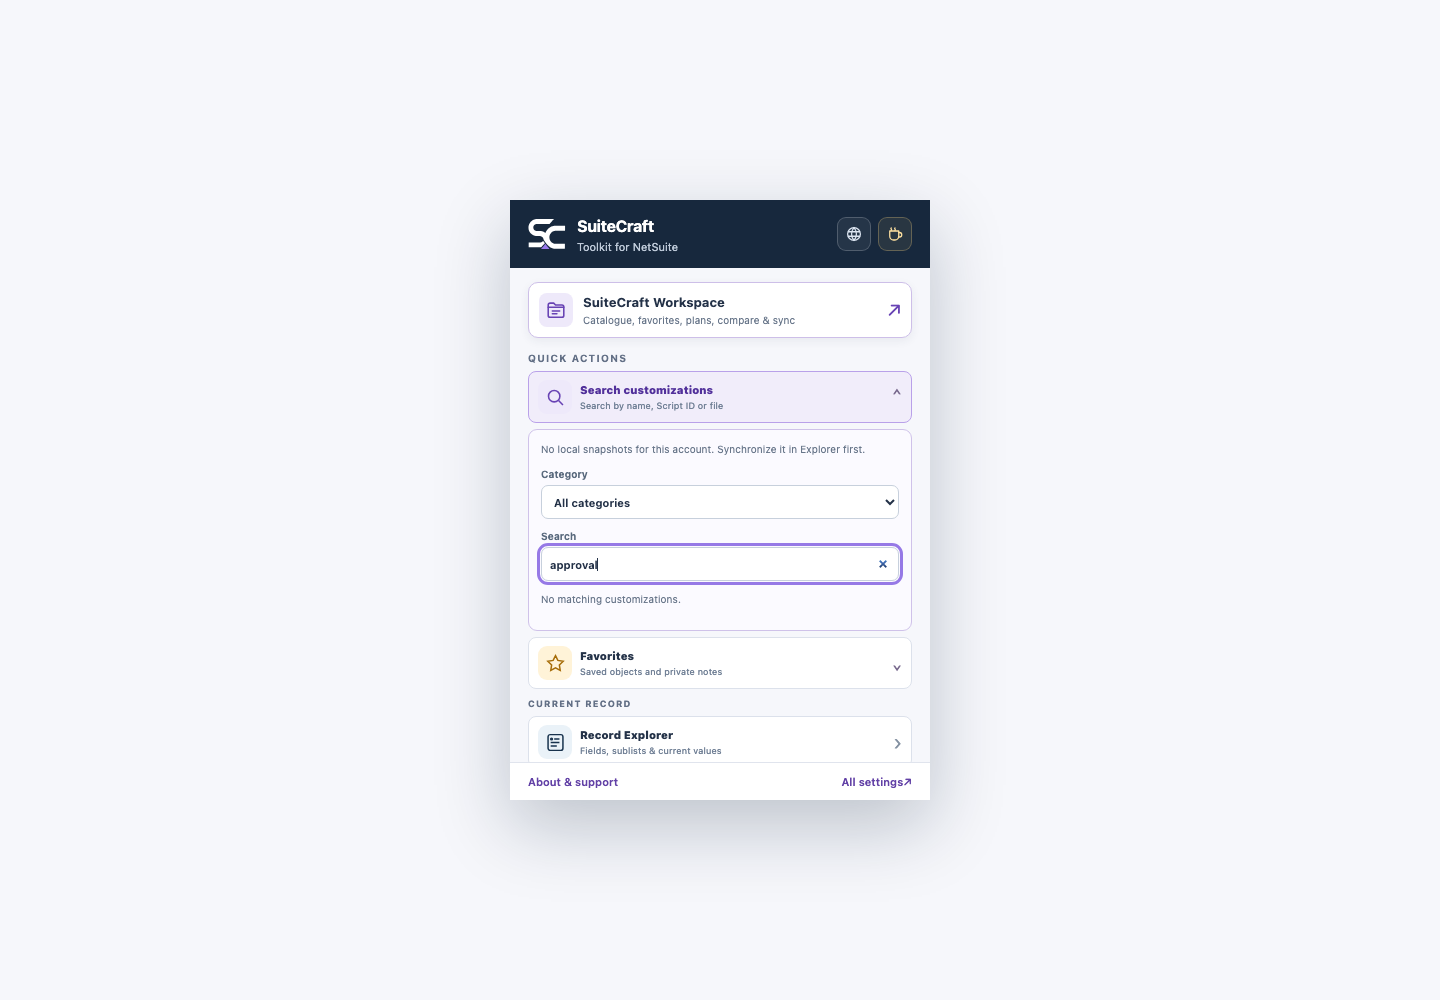
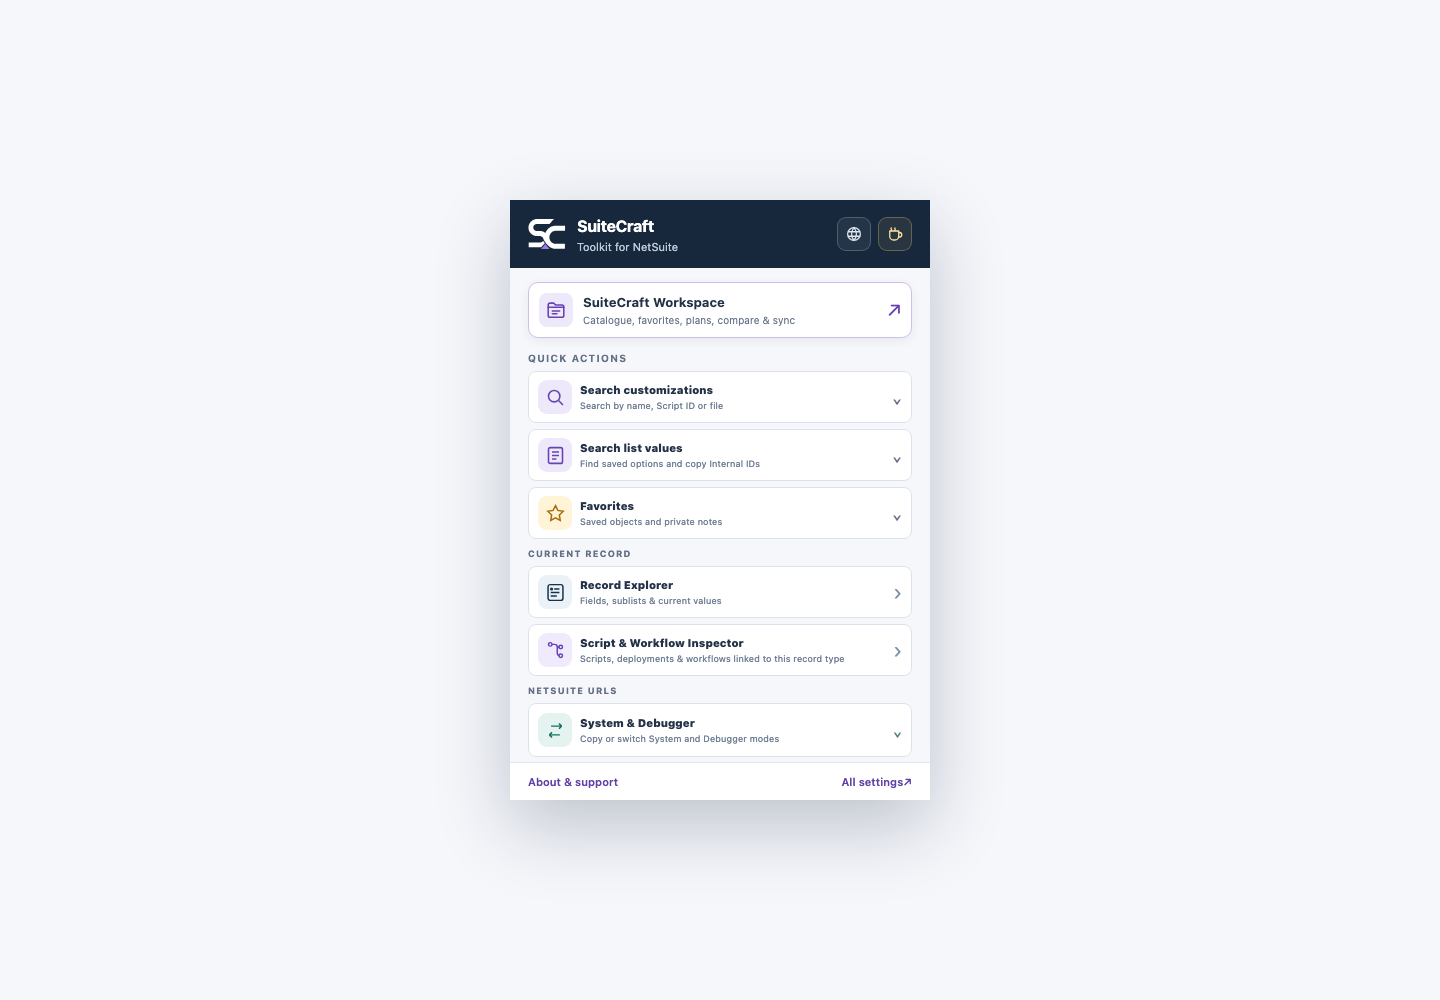
docs: publish 0.3.0 features and refreshed product screenshots

Changed region(s): [[0.375, 0.434, 0.625, 0.775], [0.4062, 0.372, 0.5, 0.403], [0.5938, 0.62, 0.625, 0.651]]

diff --git a/index.html b/index.html
@@ -44,7 +44,7 @@
 					<a class="button secondary" href="#tour">See SuiteCraft in action</a>
 				</div>
 				<p class="compatibility"><span aria-hidden="true">◆</span> Designed for Chrome and Brave · Runs locally in your browser</p>
-				<a class="release-chip" href="#changelog">Latest beta · 0.2.3 <span aria-hidden="true">→</span></a>
+				<a class="release-chip" href="#changelog">Latest beta · 0.3.0 <span aria-hidden="true">→</span></a>
 			</div>
 			<div class="hero-visual" aria-label="SuiteCraft interface preview">
 				<div class="glow"></div>
@@ -113,7 +113,7 @@
 				<p>Focused tools for administrators, developers and consultants who want to understand an account faster and repeat fewer manual steps.</p>
 			</div>
 			<div class="feature-grid">
-				<article class="feature-card featured"><span class="feature-number">01</span><div class="feature-icon">⌕</div><h3>Customization Workspace</h3><p>Search fields, custom records, lists, scripts and workflows from locally stored account snapshots.</p><ul><li>Account-scoped catalogue</li><li>Manual synchronization</li><li>CSV and JSON export</li></ul></article>
+				<article class="feature-card featured"><span class="feature-number">01</span><div class="feature-icon">⌕</div><h3>Customization Workspace</h3><p>Search fields, custom records, lists, scripts and workflows from locally stored account snapshots.</p><ul><li>Account-scoped catalogue</li><li>Manual synchronization</li><li>CSV, Excel and JSON export</li></ul></article>
 				<article class="feature-card"><span class="feature-number">02</span><div class="feature-icon">{ }</div><h3>Record Explorer</h3><p>Inspect body fields, sublists and current values, filter native and custom fields, and open synchronized field definitions.</p></article>
 				<article class="feature-card"><span class="feature-number">03</span><div class="feature-icon">⌁</div><h3>Script &amp; Workflow Inspector</h3><p>See scripts, deployments and workflows linked to the current record type, with IDs, entry points and workflow activity.</p></article>
 				<article class="feature-card"><span class="feature-number">04</span><div class="feature-icon">◇</div><h3>Compare snapshots</h3><p>See what was added, removed or changed between environments or points in time, down to practical properties and SDF XML.</p></article>
@@ -121,6 +121,9 @@
 				<article class="feature-card"><span class="feature-number">06</span><div class="feature-icon">✓</div><h3>Change Plans</h3><p>Prepare releases with target readiness checks, item statuses, notes, links and Markdown, CSV or JSON exports.</p></article>
 				<article class="feature-card"><span class="feature-number">07</span><div class="feature-icon">•••</div><h3>Record page UI</h3><p>Keep SuiteCraft shortcuts close to the record title and optionally wrap crowded NetSuite action bars across multiple rows.</p></article>
 				<article class="feature-card"><span class="feature-number">08</span><div class="feature-icon">⇄</div><h3>System &amp; Debugger URLs</h3><p>Copy or switch between System and Debugger URL variants without rebuilding the address by hand.</p></article>
+<article class="feature-card"><span class="feature-number">09</span><div class="feature-icon">☷</div><h3>Lists &amp; reference data</h3><p>Keep standard lists and custom record options close. Search values, copy Internal IDs and export local copies as CSV or Excel.</p></article>
+<article class="feature-card"><span class="feature-number">10</span><div class="feature-icon">⌕</div><h3>Quick Access search</h3><p>Find Favorites, catalogue objects and list values from the NetSuite menu. Filter by object type or list without opening Workspace.</p></article>
+<article class="feature-card"><span class="feature-number">11</span><div class="feature-icon">◐</div><h3>Make SuiteCraft yours</h3><p>Choose a light or dark theme, read illustrated feature descriptions and enable the tools you need.</p></article>
 			</div>
 		</section>
 
@@ -142,8 +145,9 @@
 				<p>Major user-facing improvements are collected here. Small fixes remain part of the build without turning the changelog into a commit log.</p>
 			</div>
 			<div class="release-list">
-<details class="release-entry current-release" open>
-<summary><span class="release-summary-main"><span class="release-status">CURRENT BETA</span><span class="release-title">0.2.3</span><span class="release-teaser">Quick Access in NetSuite and Excel exports across Workspace</span></span><span class="release-summary-side"><time datetime="2026-09-23">September 23, 2026</time><i aria-hidden="true"></i></span></summary>
+<details class="release-entry current-release" open><summary><span class="release-summary-main"><span class="release-status">CURRENT BETA</span><span class="release-title">0.3.0</span><span class="release-teaser">Reference lists, filtered Quick Access and a refreshed popup</span></span><span class="release-summary-side"><time datetime="2026-09-30">September 30, 2026</time><i aria-hidden="true"></i></span></summary><div class="release-body"><div class="release-columns"><section><strong>New</strong><ul><li>Synchronize Subsidiaries, Locations, Departments, Classes and Currencies with the main catalogue, and browse their values and Internal IDs in Lists.</li><li>Select Custom Lists from the catalogue or add custom records as reference lists using a Script ID or Internal ID, with name or a custom field as the label.</li><li>Search saved list values from the NetSuite navigation menu and extension popup, copy IDs and open records.</li></ul></section><section><strong>Improved</strong><ul><li>Quick Access separates Favorites, Catalogue and List values, with filters for object types and individual lists.</li><li>List synchronization includes search by name or ID, selected lists first, compact rows and editable configurations included in local backups.</li><li>Choose light or dark mode across SuiteCraft. Settings include expandable feature descriptions, screenshots and field help; feature switches change only through their toggle.</li></ul></section><section><strong>Fixed</strong><ul><li>Corrected links for standard reference lists and custom record entries, including configurations that use only a Script ID.</li><li>Unavailable lists do not stop the remaining synchronization, and failed downloads retain the previous local copy.</li></ul></section></div></div></details>
+<details class="release-entry previous-release">
+<summary><span class="release-summary-main"><span class="release-status">PREVIOUS RELEASE</span><span class="release-title">0.2.3</span><span class="release-teaser">Quick Access in NetSuite and Excel exports across Workspace</span></span><span class="release-summary-side"><time datetime="2026-09-23">September 23, 2026</time><i aria-hidden="true"></i></span></summary>
 <div class="release-body"><div class="release-columns"><section><strong>New</strong><ul><li>Change Plan items now use To create, To update, To delete, Needs attention, Completed and Excluded. Needs attention is the default; Markdown groups items by action and includes Code / delivery / PR links.</li><li>Quick Access in the NetSuite navigation bar brings account Favorites and local catalogue search together, with results opening in new tabs.</li><li>Choose CSV or Excel XLSX for catalogue, comparison, missing-scope, snapshot and Change Plan exports.</li></ul></section><section><strong>Improved</strong><ul><li>Quick Access opens on hover with search focused, preserves results while hidden and waits 500 ms after typing before searching.</li><li>Manual workflow and custom-record detail synchronization is available in a collapsed Advanced section.</li></ul></section><section><strong>Fixed</strong><ul><li>Quick Access stays in the navigation menu, respects its display scaling and accepts spaces in search queries.</li><li>Synchronization resets and verifies supported list filters so remembered Script Type, API Version and workflow status selections do not silently narrow downloads.</li></ul></section></div><p class="release-note">Quick Access uses local data: Favorites belong to the current account, and catalogue search is scoped to the verified account and role. Use Reload data after synchronization to refresh cached results.</p></div>
 </details>
 				<details class="release-entry previous-release">

diff --git a/assets/site.js b/assets/site.js
@@ -10,12 +10,17 @@ menu?.addEventListener('click',event=>{
 document.querySelector('#year').textContent=String(new Date().getFullYear());
 
 const tourSlides=[
+ {tab:'Popup menu',kicker:'YOUR TOOLS',title:'The SuiteCraft menu, organized around your work.',description:'Open search, Favorites, record tools and System / Debugger controls from the extension popup.',points:['Search customizations and list values','Contextual record tools','Workspace and settings shortcuts'],image:'01-quick-access.png'},
+ {tab:'Navigation search',kicker:'QUICK ACCESS',title:'Find a record or a list value from the menu.',description:'Search Favorites, catalogue objects and saved list values in one compact panel. Narrow results by object type or individual list.',points:['Catalogue and list filters','Copy Internal IDs','Uses the current account and role'],image:'09-navigation-search.png'},
+ {tab:'Lists',kicker:'REFERENCE DATA',title:'Your lookup values, ready when you need them.',description:'Browse standard lists and custom record options in Workspace. Choose the field used as the label and keep each account and role separate.',points:['Standard lists included in main sync','Custom record lists by Script ID or Internal ID','Search, copy and export values'],image:'10-reference-lists.png'},
+ {tab:'List synchronization',kicker:'CHOOSE YOUR LISTS',title:'Bring the lists you use into Workspace.',description:'Find lists by name or ID, select what to download and configure custom records as lookup lists.',points:['Compact searchable selection','Selected lists shown first','Field help for custom configurations'],image:'12-list-synchronization.png'},
+ {tab:'Settings',kicker:'YOUR SUITECRAFT',title:'Choose your tools and your theme.',description:'Set a light or dark theme across SuiteCraft, explore illustrated feature descriptions and enable the tools you need.',points:['Light and dark modes','Expandable feature help','Dedicated enable and disable switches'],image:'11-settings.png'},
 	{tab:'Catalogue',kicker:'CUSTOMIZATION CATALOGUE',title:'Find the right object in seconds.',description:'Search by name or Script ID, combine filters and inspect the selected object without leaving the catalogue.',points:['Account and category filters','Direct NetSuite links','Favorites and SDF actions'],image:'02-catalogue.png',step:2},
 	{tab:'Favorites',kicker:'ACCOUNT FAVORITES',title:'Keep important NetSuite objects close.',description:'Save frequently used records and customizations with private notes scoped to the relevant account.',points:['Grouped by object type','Account, type and text filters','Direct links back to NetSuite'],image:'06-favorites.png',step:7},
 	{tab:'Change Plans',kicker:'RELEASE PLANNING',title:'Turn a list of changes into a release plan.',description:'Collect structural changes and supporting references, compare them with a target account and prepare practical release notes.',points:['Target readiness and blockers','Release and technical notes','Markdown, CSV and JSON export'],image:'08-change-plans.png',step:8},
 	{tab:'Compare',kicker:'SNAPSHOT COMPARISON',title:'See what changed between accounts.',description:'Compare environments or historical versions and inspect meaningful differences property by property.',points:['Added, removed and changed statuses','Stable Script ID matching','Level 2 SDF comparison'],image:'04-compare.png',step:5},
 	{tab:'Sync',kicker:'LOCAL SNAPSHOTS',title:'Refresh metadata only when you choose.',description:'Synchronize selected categories through the signed-in NetSuite tab and continue an interrupted operation.',points:['Manual, category-based synchronization','Optional workflow and record details','Version history and recovery'],image:'05-synchronization.png',step:6},
-	{tab:'Quick access',kicker:'QUICK ACCESS',title:'Your daily tools, one click away.',description:'Open SuiteCraft from the current NetSuite page and move directly to the tool you need.',points:['Search the current account','Open Record Explorer or Script & Workflow Inspector','Reach Workspace, Favorites and developer URLs'],image:'01-quick-access.png',step:1},
+	{tab:'Popup',kicker:'EXTENSION POPUP',title:'Search list values without opening Workspace.',description:'Use the extension popup to find a saved list option, copy its ID or open the full list and synchronization controls.',points:['Search the current account','Open Record Explorer or Script & Workflow Inspector','Reach Workspace, Favorites and developer URLs'],image:'13-popup-list-search.png'},
 	{tab:'Record Explorer',kicker:'RECORD INSPECTION',title:'Understand the record in front of you.',description:'Inspect body fields, sublists and Inventory Detail without losing the context of the NetSuite form.',points:['Native and custom field filters','Session pins and sublist context','JSON and CSV export'],image:'03-record-explorer.png',step:3},
 	{tab:'Scripts & workflows',kicker:'SCRIPTED RECORDS',title:'See what is attached to this record type.',description:'Review applicable scripts, deployments and workflows together with the workflow activity available on the current record.',points:['Script and deployment IDs','Entry points, status and ownership','Active workflow and history views'],image:'07-script-workflow-inspector.png',step:4}
 ];
@@ -28,7 +33,7 @@ function showTourSlide(index){
 	activeTourSlide=Math.max(0,Math.min(tourSlides.length-1,index));const slide=tourSlides[activeTourSlide];
 	tour.media.classList.toggle('overview',!!slide.overview);tour.overview.hidden=!slide.overview;tour.image.hidden=!!slide.overview;
 	if(slide.image){tour.image.src=`assets/screenshots/${slide.image}`;tour.image.alt=`SuiteCraft ${slide.tab} interface using synthetic data`;}
-	tour.number.textContent=`${String(activeTourSlide+1).padStart(2,'0')} / ${String(tourSlides.length).padStart(2,'0')}`;tour.kicker.textContent=slide.kicker;tour.title.textContent=slide.title;tour.description.textContent=slide.description;tour.points.replaceChildren(...slide.points.map(value=>{const item=document.createElement('li');item.textContent=value;return item;}));tour.fullscreen.href=`demo.html?step=${slide.step}`;
+	tour.number.textContent=`${String(activeTourSlide+1).padStart(2,'0')} / ${String(tourSlides.length).padStart(2,'0')}`;tour.kicker.textContent=slide.kicker;tour.title.textContent=slide.title;tour.description.textContent=slide.description;tour.points.replaceChildren(...slide.points.map(value=>{const item=document.createElement('li');item.textContent=value;return item;}));tour.fullscreen.href=slide.step?`demo.html?step=${slide.step}`:`assets/screenshots/${slide.image}`;
 	for(const [buttonIndex,button] of [...tour.tabs.children].entries()){const active=buttonIndex===activeTourSlide;button.classList.toggle('active',active);button.setAttribute('aria-selected',String(active));button.tabIndex=active?0:-1;}
 	tour.previous.disabled=activeTourSlide===0;tour.next.disabled=activeTourSlide===tourSlides.length-1;
 }

diff --git a/README.md b/README.md
@@ -37,3 +37,7 @@ Before a public launch, replace the beta placeholder with the verified release d
 All screenshots use fictional accounts, IDs, names and values. Do not replace them with captures from a client account unless every customer identifier and confidential value has been removed and the result has been reviewed before publication.
 
 Never add extension source, private build configuration, signing keys, source maps or unpacked extension builds to this repository.
+
+## 0.3.0 screenshots
+
+The landing page includes fresh captures of the real extension popup, navigation Quick Access, reference lists, list synchronization and Settings. Captures use fictional Northstar data in the extension repository's local lab. They are product previews, not evidence of live NetSuite compatibility testing.
